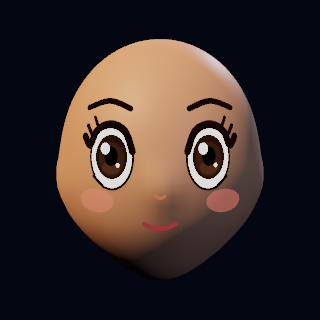
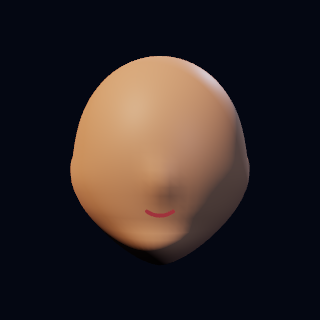
Thêm các tệp hình ảnh thiết kế nhân vật mới cho nhân vật Mai, bao gồm các kiểu râu, chân mày, mắt, mũi, miệng và kính. Cập nhật cấu trúc dữ liệu để hỗ trợ các tham số thiết kế trong video ngắn.

Changed region(s): [[0.1562, 0.125, 0.8438, 0.875], [0.4688, 0.5625, 0.5625, 0.625]]

diff --git a/src/plugins/Vn4ELearning/AddOn/CreateData/Tabs/AppMobile/Marketing/AgentVideo/CharacterDesignDialog.tsx b/src/plugins/Vn4ELearning/AddOn/CreateData/Tabs/AppMobile/Marketing/AgentVideo/CharacterDesignDialog.tsx
@@ -5,8 +5,9 @@ import RestartAltIcon from '@mui/icons-material/RestartAlt';
 import {CharacterDesignCatalog, CharacterDesignConfig, SceneAsset, sceneAssetMessage, sceneAssetsRequest} from 'helpers/shortVideoSceneAssets';
 import SceneAssetHtmlPreview from './SceneAssetHtmlPreview';
 
-const colorNames: Record<string,string> = {skin:'Màu da', hair:'Màu tóc', eyes:'Màu mắt', lips:'Màu môi', top:'Màu áo', bottom:'Màu quần', shoes:'Màu giày', accessory:'Màu dây buộc tóc'};
+const colorNames: Record<string,string> = {skin:'Màu da', hair:'Màu tóc', eyes:'Màu mắt', lips:'Màu môi', top:'Màu áo', bottom:'Màu quần', shoes:'Màu giày', accessory:'Màu dây buộc tóc',brows:'Màu chân mày',beard:'Màu râu',glasses:'Màu gọng kính'};
 const palette = ['#F5F5F5','#9E9E9E','#424242','#9670CF','#982BFA','#5623A7','#4DD0E1','#00E5FF','#005C65','#FFEB3B','#FFFF00','#FFC12B','#81C784','#00E600','#388E3C','#64B5F6','#00B8ED','#1976D2','#E57373','#FF1744','#C62828','#F50087','#AD1457','#E0A97C','#F4D4B5','#AD7351','#754B35','#2B1B14','#D9C4A2','#3A2418','#397B77','#9B4248','#1FA88A','#315B87','#2B3A5C','#EDDFC2','#E8A020','#B85868','#7968A8'];
+const previewMenuProps = {PaperProps:{sx:{bgcolor:'#25283e',color:'#fff','& .MuiMenuItem-root':{color:'#fff'},'& .MuiMenuItem-root.Mui-selected':{bgcolor:'#504967'}}}};
 const emotions = ['neutral','happy','sad','angry','surprised','worried','smug','thinking','crying','laughing'];
 const poses = ['idle','stand','sit','kneel','cover_ears','hold_paw','lift_with_helper','carry_cup','carry_bowl'];
 
@@ -23,7 +24,7 @@ type Props = {shortVideoId:number; asset:SceneAsset; busy:boolean; onClose:()=>v
 export default function CharacterDesignDialog({shortVideoId,asset,busy,onClose,onSave}: Props) {
     const [catalog,setCatalog]=React.useState<CharacterDesignCatalog|null>(null);
     const [config,setConfig]=React.useState<CharacterDesignConfig|null>(null);
-    const [slot,setSlot]=React.useState('head');
+    const [slot,setSlot]=React.useState('skin');
     const [error,setError]=React.useState('');
     const [saving,setSaving]=React.useState(false);
     const [attempt,setAttempt]=React.useState(0);
@@ -37,12 +38,13 @@ export default function CharacterDesignDialog({shortVideoId,asset,busy,onClose,o
         void sceneAssetsRequest(shortVideoId,'design_catalog',{asset_id:asset.id}).then(res=>{
             if(!active)return;
             if(!res.success||!res.designer)throw new Error(sceneAssetMessage(res));
-            setCatalog(res.designer);setConfig(res.designer.config);
+            setCatalog(res.designer);setConfig(res.designer.config);setSlot(res.designer.catalog[0]?.id||'skin');
         }).catch(e=>{if(active)setError(e instanceof Error?e.message:'Không tải được bộ thiết kế.');});
         return ()=>{active=false;};
     },[shortVideoId,asset.id,attempt]);
+    // The iframe document never changes when choosing parts. Its existing scene receives the design.
     const html=React.useMemo(()=>catalog?characterDesignPreview(catalog.template_html,catalog.config,'reset','idle','neutral'):'',[catalog]);
-    const previewMessage=React.useMemo(()=>({type:'sv-design-preview',colors:config?.colors,view,pose,emotion,focusNonce}),[config,view,pose,emotion,focusNonce]);
+    const previewMessage=React.useMemo(()=>({type:'sv-design-preview',design:config,colors:config?.colors,view,pose,emotion,focusNonce}),[config,view,pose,emotion,focusNonce]);
     const current=catalog?.catalog.find(c=>c.id===slot);
     const disabled=busy||saving;
     const save=async()=>{
@@ -54,7 +56,7 @@ export default function CharacterDesignDialog({shortVideoId,asset,busy,onClose,o
         } catch {setError('Không kết nối được CMS. Thiết kế đang chỉnh vẫn được giữ.');}
         finally {setSaving(false);}
     };
-    return <Dialog open fullWidth maxWidth="xl" onClose={()=>{if(!disabled)onClose();}} aria-labelledby="character-design-title" PaperProps={{sx:{borderRadius:3,overflow:'hidden',bgcolor:'#25283e',color:'#f4f3fb',maxHeight:'96vh',m:{xs:1,sm:2},width:{xs:'calc(100% - 16px)',sm:'calc(100% - 32px)'}}}}>
+    return <Dialog open fullWidth maxWidth="xl" onClose={()=>{if(!disabled)onClose();}} aria-labelledby="character-design-title" PaperProps={{sx:{borderRadius:3,overflow:'hidden',bgcolor:'#25283e',color:'#f4f3fb',maxHeight:'96vh','& .MuiButton-root':{color:'#fff'},'& .MuiButton-root.Mui-disabled':{color:'rgba(255,255,255,.45)'},m:{xs:1,sm:2},width:{xs:'calc(100% - 16px)',sm:'calc(100% - 32px)'}}}}>
         <DialogTitle id="character-design-title" sx={{display:'flex',alignItems:'center',flexWrap:'wrap',gap:1,fontSize:{xs:16,sm:20},py:1.25}}>
             Thiết kế nhân vật <Typography component="span" sx={{color:'#b9bdd4'}}>· {asset.name}</Typography>
             <Stack direction="row" gap={1} sx={{ml:'auto'}}>
@@ -67,9 +69,9 @@ export default function CharacterDesignDialog({shortVideoId,asset,busy,onClose,o
             {error&&<Alert severity="error" action={!catalog?<Button onClick={()=>setAttempt(n=>n+1)}>Thử lại</Button>:undefined}>{error}</Alert>}
             {!catalog||!config?<Box sx={{height:'60vh',display:'grid',placeItems:'center'}}><CircularProgress aria-label="Đang tải bộ thiết kế"/></Box>:<Box>
                 <Box sx={{position:'relative',bgcolor:'#151a28',minWidth:0,'& iframe':{height:{xs:'32vh !important',md:'43vh !important'},minHeight:220}}}>
-                    <Stack direction="row" gap={1} sx={{position:'absolute',top:14,left:16,right:{xs:16,sm:'auto'},zIndex:1,bgcolor:'rgba(24,27,44,.92)',p:1.25,borderRadius:2,color:'#f4f3fb','& .MuiInputBase-root':{color:'inherit',fontSize:13},'& .MuiInputLabel-root':{color:'#c2c5d8'},'& .MuiOutlinedInput-notchedOutline':{borderColor:'#626980'},'& .MuiSvgIcon-root':{color:'#c2c5d8'}}}>
-                        <FormControl size="small" sx={{minWidth:0,width:{xs:'50%',sm:155}}}><InputLabel>Tư thế xem thử</InputLabel><Select label="Tư thế xem thử" value={pose} onChange={e=>setPose(e.target.value)}>{poses.map(p=><MenuItem key={p} value={p}>{p}</MenuItem>)}</Select></FormControl>
-                        <TextField select size="small" sx={{minWidth:0,width:{xs:'50%',sm:155}}} label="Biểu cảm xem thử" value={emotion} onChange={e=>setEmotion(e.target.value)}>{emotions.map(e=><MenuItem key={e} value={e}>{e}</MenuItem>)}</TextField>
+                    <Stack direction="row" gap={1} sx={{position:'absolute',top:14,left:16,right:{xs:16,sm:'auto'},zIndex:1,bgcolor:'rgba(24,27,44,.92)',p:1.25,borderRadius:2,color:'#f4f3fb','& .MuiInputBase-root':{color:'#fff',fontSize:13},'& .MuiSelect-select':{color:'#fff'},'& .MuiInputLabel-root':{color:'#c2c5d8'},'& .MuiOutlinedInput-notchedOutline':{borderColor:'#626980'},'& .MuiSvgIcon-root':{color:'#c2c5d8'}}}>
+                        <FormControl size="small" sx={{minWidth:0,width:{xs:'50%',sm:155}}}><InputLabel>Tư thế xem thử</InputLabel><Select MenuProps={previewMenuProps} label="Tư thế xem thử" value={pose} onChange={e=>setPose(e.target.value)}>{poses.map(p=><MenuItem key={p} value={p}>{p}</MenuItem>)}</Select></FormControl>
+                        <TextField select SelectProps={{MenuProps:previewMenuProps}} size="small" sx={{minWidth:0,width:{xs:'50%',sm:155}}} label="Biểu cảm xem thử" value={emotion} onChange={e=>setEmotion(e.target.value)}>{emotions.map(e=><MenuItem key={e} value={e}>{e}</MenuItem>)}</TextField>
                     </Stack>
                     <SceneAssetHtmlPreview html={html} previewMessage={previewMessage} title={`Thiết kế ${asset.name}`} height="43vh"/>
                     <Stack direction="row" gap={.5} sx={{position:'absolute',bottom:12,right:16,left:{xs:16,sm:'auto'},overflowX:'auto',justifyContent:{xs:'center',sm:'flex-end'}}}>
@@ -86,13 +88,13 @@ export default function CharacterDesignDialog({shortVideoId,asset,busy,onClose,o
                     </Stack>)}
                     <Box sx={{bgcolor:'rgba(20,23,43,.3)',borderRadius:2,px:{xs:1.5,sm:2.5},pt:.5,pb:2}}>
                         <Box role="tablist" aria-label="Bộ phận nhân vật" sx={{display:'flex',gap:{xs:2,sm:3.5},overflowX:'auto',mb:2,scrollbarWidth:'thin'}}>
-                            {catalog.catalog.map(category=><Button role="tab" id={`design-tab-${category.id}`} aria-controls="design-assets-panel" aria-selected={slot===category.id} key={category.id} onClick={()=>{setSlot(category.id);setView('part:'+category.id);setFocusNonce(n=>n+1);}} sx={{flexShrink:0,minWidth:0,px:0,py:1.5,color:slot===category.id?'white':'#d2d4e5',borderRadius:0,borderBottom:'2px solid',borderColor:slot===category.id?'white':'transparent',fontSize:{xs:14,sm:16},fontWeight:600,textTransform:'none'}}>{category.name}</Button>)}
+                            {catalog.catalog.map(category=><Button role="tab" id={`design-tab-${category.id}`} aria-controls="design-assets-panel" aria-selected={slot===category.id} key={category.id} onClick={()=>{setSlot(category.id);setView('part:'+category.id);setFocusNonce(n=>n+1);}} sx={{flexShrink:0,minWidth:0,px:0,py:1.5,color:'#fff',borderRadius:0,borderBottom:'2px solid',borderColor:slot===category.id?'white':'transparent',fontSize:{xs:14,sm:16},fontWeight:600,textTransform:'none'}}>{category.name}</Button>)}
                         </Box>
                         <Box role="tabpanel" id="design-assets-panel" aria-labelledby={`design-tab-${slot}`} sx={{display:'flex',gap:1.5,overflowX:'auto',pb:1}}>
-                            {current?.items.map(item=><Button key={item.id} disabled={disabled} aria-label={item.name} aria-pressed={config.selections[slot]===item.id} onClick={()=>setConfig({...config,selections:{...config.selections,[slot]:item.id}})} sx={{position:'relative',flexShrink:0,width:{xs:100,sm:116},minWidth:0,p:.5,textTransform:'none',display:'flex',flexDirection:'column',gap:.5,border:'2px solid',borderColor:config.selections[slot]===item.id?'white':'#202238',borderRadius:2.5,color:'white',bgcolor:config.selections[slot]===item.id?'rgba(232,230,255,.2)':'rgba(17,20,37,.4)','&:hover':{bgcolor:'rgba(232,230,255,.15)'}}}>
+                            {current?.id!=='skin'&&current?.items.map(item=><Button key={item.id} disabled={disabled} aria-label={item.name} aria-pressed={config.selections[slot]===item.id} onClick={()=>setConfig({...config,selections:{...config.selections,[slot]:item.id},...(item.parameters?{parameters:{...config.parameters,...item.parameters}}:{})})} sx={{position:'relative',flexShrink:0,width:{xs:100,sm:116},minWidth:0,p:.5,textTransform:'none',display:'flex',flexDirection:'column',gap:.5,border:'2px solid',borderColor:config.selections[slot]===item.id?'white':'#202238',borderRadius:2.5,color:'white',bgcolor:config.selections[slot]===item.id?'rgba(232,230,255,.2)':'rgba(17,20,37,.4)','&:hover':{bgcolor:'rgba(232,230,255,.15)'}}}>
                                 {item.thumbnail?<Box component="img" src={`${process.env.PUBLIC_URL||''}/images/character-design/${item.thumbnail}`} alt="" sx={{width:'100%',aspectRatio:'1',objectFit:'contain',borderRadius:1.5,bgcolor:'#151a28'}}/>:<Box sx={{height:70,display:'grid',placeItems:'center'}}><CheckCircleIcon/></Box>}
                                 {config.selections[slot]===item.id&&<CheckCircleIcon sx={{position:'absolute',top:8,right:8,fontSize:18,color:'white',filter:'drop-shadow(0 1px 3px #000)'}}/>}
-                                <Typography variant="caption" sx={{fontSize:11,lineHeight:1.3,pb:.5}}>{item.name}</Typography>
+                                <Typography variant="caption" sx={{fontSize:11,lineHeight:1.3,pb:.5,color:'#fff'}}>{item.name}</Typography>
                             </Button>)}
                         </Box>
 

diff --git a/src/plugins/Vn4ELearning/AddOn/CreateData/Tabs/AppMobile/Marketing/AgentVideo/CharacterDesignDialog.test.tsx b/src/plugins/Vn4ELearning/AddOn/CreateData/Tabs/AppMobile/Marketing/AgentVideo/CharacterDesignDialog.test.tsx
@@ -36,3 +36,18 @@ test('catalog failure can be retried without closing',async()=>{
  render(<CharacterDesignDialog shortVideoId={42} asset={asset} busy={false} onSave={jest.fn()} onClose={jest.fn()}/>);
  await screen.findByText('Mất kết nối');fireEvent.click(screen.getByRole('button',{name:'Thử lại'}));await screen.findByText('Đầu Mai');
 });
+
+test('facial options select a named part with no sliders and save its recipe',async()=>{
+ const onSave=jest.fn().mockResolvedValue(true);
+ (sceneAssetsRequest as jest.Mock).mockResolvedValue({success:true,designer:{...designer,config:{...config,parameters:{headWidth:1}},catalog:[{...designer.catalog[0],items:[...designer.catalog[0].items,{id:'round',name:'Mặt tròn',badge:'HTML',parameters:{headWidth:1.15,headHeight:.9,jawWidth:1.15}}]}]}});
+ render(<CharacterDesignDialog shortVideoId={42} asset={asset} busy={false} onSave={onSave} onClose={jest.fn()}/>);
+ await screen.findByRole('button',{name:'Mặt tròn'});
+ expect(screen.queryByRole('slider')).toBeNull();
+ const initialHtml=screen.getByTestId('design-preview').getAttribute('data-html');
+ fireEvent.click(screen.getByRole('button',{name:'Mặt tròn'}));
+ expect(screen.getByRole('button',{name:'Mặt tròn'}).getAttribute('aria-pressed')).toBe('true');
+ expect(screen.getByTestId('design-preview').getAttribute('data-html')).toBe(initialHtml);
+ expect(screen.getByTestId('design-preview').textContent).toContain('headWidth\":1.15');
+ fireEvent.click(screen.getByRole('button',{name:'Lưu nhân vật'}));
+ await waitFor(()=>expect(onSave).toHaveBeenCalledWith(expect.objectContaining({design:expect.objectContaining({selections:expect.objectContaining({head:'round'}),parameters:{headWidth:1.15,headHeight:.9,jawWidth:1.15}})})));
+});

diff --git a/src/helpers/shortVideoSceneAssets.ts b/src/helpers/shortVideoSceneAssets.ts
@@ -20,10 +20,10 @@ export type SceneAssetRegistry = {
     schema_version?: string; storyboard_version?: 'causal_3d_v1'; revision?: string; assets?: Record<string, SceneAsset>; beats?: Record<string, SceneAssetBeat>;
 };
 export type CharacterDesignConfig = {
-    template: 'mai_v1'; selections: Record<string, string>; colors: Record<string, string>;
+    template: 'mai_v1'; selections: Record<string, string>; colors: Record<string, string>; parameters?: Record<string, number>;
 };
 export type CharacterDesignCatalog = {
-    catalog: {id: string; name: string; colors: string[]; items: {id: string; name: string; badge: string; thumbnail?: string}[]}[];
+    catalog: {id: string; name: string; colors: string[]; items: {id: string; name: string; badge: string; thumbnail?: string; parameters?: Record<string,number>}[]}[];
     template_html: string; config: CharacterDesignConfig;
     expected_module_hash: string; expected_spec_hash: string; replacing: boolean;
 };
